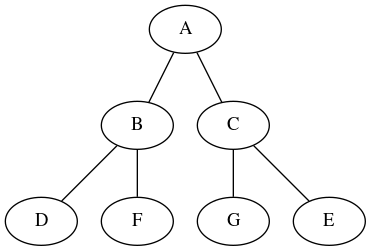
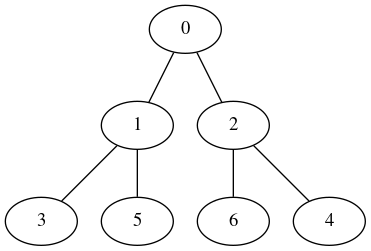
>

diff --git a/node.cpp b/node.cpp
@@ -2,30 +2,10 @@
 
 namespace Kdt
 {
-    //Node::Node(int level, const Object& obj, Dimension dim):
-    //    left(nullptr),
-    //    right(nullptr),
-    //    level(level),
-    //    obj(obj),
-    //    dim(dim)
-    //{
-    //    axis = level % NDIM;
-    //    key = 0.5 * (dim.min[axis] + dim.max[axis]);
-    //}
-
     int find_median(int axis, Input& objects)
     {
         std::sort(objects.begin(), objects.end(), [&](Object& a, Object& b){return a.dim.min[axis] < b.dim.min[axis];});
         int size = objects.size();
-
-        std::cout << "level: " << axis << std::endl;
-        std::cout << "axis: " << axis << std::endl;
-        std::cout << "size: " << size << std::endl;
-        for (auto a: objects)
-        {
-            std::cout << "a: " << a.id << std::endl;
-        }
-        //assert(false);
 
         if (size % 2 != 0)
         {
@@ -43,14 +23,7 @@ namespace Kdt
         dim(dim)
     {
         axis = level % NDIM;
-        if (median)
-        {
-            key = obj.dim.min[axis];
-        }
-        else
-        {
-            key = 0.5 * (dim.min[axis] + dim.max[axis]);
-        }
+        set_key(median);
     }
 
     Node::Node(int level, Dimension dim):
@@ -60,110 +33,7 @@ namespace Kdt
         dim(dim)
     {
         axis = level % NDIM;
-        key = 0.5 * (dim.min[axis] + dim.max[axis]);
     }
-
-    //Node* Node::insert(Input& objects, bool median)
-    //{
-    //    //int sub_axis = (level + 1) % NDIM;
-    //    //std::cout << "resident obj: " << this->obj.id << std::endl;
-    //    //std::cout << "resident axis: " << this->axis << std::endl;
-    //    //std::cout << "resident key: " << this->key << std::endl;
-    //    //int index = find_median(sub_axis, objects);
-    //    //const Object& obj = objects[index];
-    //    const Object& obj = objects.front();
-
-    //    Node* node = nullptr;
-
-    //    if (obj.dim.min[axis] < key)
-    //    {
-    //        bool inserted = insert_left(obj, median);
-    //        //if (inserted)
-    //        //{
-    //            //objects.erase(objects.begin() + index);
-    //            //objects.erase(objects.begin());
-    //            //return left;
-    //        //}
-    //        //node = left->insert(objects, median);
-    //    }
-    //    else
-    //    {
-    //        bool inserted = insert_right(obj, median);
-    //        if (inserted)
-    //        {
-    //            //objects.erase(objects.begin() + index);
-    //            objects.erase(objects.begin());
-    //            return right;
-    //        }
-    //        node = right->insert(objects, median);
-    //    }
-
-    //    return node;
-    //}
-
-    //Node* Node::insert(const Object& obj)
-    //{
-    //    Node* node = nullptr;
-
-    //    if (obj.dim.min[axis] < key)
-    //    {
-    //        bool inserted = insert_left(obj);
-    //        if (inserted) return left;
-    //        node = left->insert(obj);
-    //    }
-    //    else
-    //    {
-    //        bool inserted = insert_right(obj);
-    //        if (inserted) return right;
-    //        node = right->insert(obj);
-    //    }
-
-    //    return node;
-    //}
-
-    //bool Node::insert_left(const Object& obj, bool median)
-    //{
-    //    if (left == nullptr)
-    //    {
-    //        Dimension half_dim = dim;
-    //        if (median)
-    //        {
-    //            half_dim.max[axis] = this->obj.dim.min[axis];
-    //        }
-    //        else
-    //        {
-    //            half_dim.max[axis] = key;
-    //        }
-
-    //        left = new Node(level + 1, obj, half_dim, median);
-    //        return true;
-    //    }
-
-    //    return false;
-    //}
-
-    //bool Node::insert_right(const Object& obj, bool median)
-    //{
-    //    if (right == nullptr)
-    //    {
-    //        Dimension half_dim = dim;
-    //        if (median)
-    //        {
-    //            half_dim.min[axis] = this->obj.dim.min[axis];
-    //        }
-    //        else
-    //        {
-    //            half_dim.min[axis] = key;
-    //        }
-
-    //        right = new Node(level + 1, obj, half_dim, median);
-    //        return true;
-    //    }
-
-    //    return false;
-    //}
-
-    // assumed root is initizalized and has object.
 
     Dimension Node::half_dim_left(bool median)
     {
@@ -197,6 +67,18 @@ namespace Kdt
         return half_dim;
     }
 
+    void Node::set_key(bool median)
+    {
+        if (median)
+        {
+            key = obj.dim.min[axis];
+        }
+        else
+        {
+            key = 0.5 * (dim.min[axis] + dim.max[axis]);
+        }
+    }
+
     void Node::insert(Input objects, std::map<int, Node*>& id_address, bool median)
     {
         if (objects.empty())
@@ -204,35 +86,38 @@ namespace Kdt
             return;
         }
 
-        int index = find_median(axis, objects);
-        const Object& obj = objects[index];
+        int index;
 
-        if (obj.dim.min[axis] < key)
+        if (median)
         {
-            assert(left == nullptr);
-
-            left = new Node(level + 1, obj, half_dim_left(median), median);
-            id_address.insert(std::make_pair(obj.id, left));
-            auto slice = std::vector<Object>(objects.begin(), objects.begin() + index);
-            for (auto s: slice)
-            {
-                std::cout << "id left: " << s.id << std::endl;
-            }
-            left->insert(slice, id_address, median);
+            index = find_median(axis, objects);
+        }
+        else
+        {
+            index = 0;
         }
 
-        if (obj.dim.min[axis] >= key)
+        const Object& obj = objects[index];
+
+        this->obj = obj;
+        set_key(median);
+        id_address.insert(std::make_pair(obj.id, this));
+
+        auto slice_left = std::vector<Object>(objects.begin(), objects.begin() + index);
+        auto slice_right = std::vector<Object>(objects.begin() + index + 1, objects.end());
+
+        if (!slice_left.empty())
+        {
+            assert(left == nullptr);
+            left = new Node(level + 1, half_dim_left(median));
+            left->insert(slice_left, id_address, median);
+        }
+
+        if (!slice_right.empty())
         {
             assert(right == nullptr);
-
-            right = new Node(level + 1, obj, half_dim_right(median), median);
-            id_address.insert(std::make_pair(obj.id, right));
-            auto slice = std::vector<Object>(objects.begin() + index + 1, objects.end());
-            for (auto s: slice)
-            {
-                std::cout << "id right: " << s.id << std::endl;
-            }
-            right->insert(slice, id_address, median);
+            right = new Node(level + 1, half_dim_right(median));
+            right->insert(slice_right, id_address, median);
         }
     }
 }

diff --git a/kdt.cpp b/kdt.cpp
@@ -2,28 +2,12 @@
 
 namespace Kdt
 {
-    //Kdt::Kdt(Input& objects):
-    //    root(nullptr)
-    //{
-    //    init_root(objects);
-    //    insert(objects);
-    //}
-
-    Kdt::Kdt(Input& objects, Dimension dim, bool median):
-        root(nullptr)
+    Kdt::Kdt(Input& objects, Dimension dim, bool median)
     {
-        init_root(objects, dim, median);
+        root = new Node(0, dim);
         root->insert(objects, id_address, median);
     }
     
-    //Dimension::Dimension(Vector min, Vector max):
-        //min(min),
-        //max(max)
-    //{
-    //}
-    //
-
-
     Dimension bounding_box(const Input& objects)
     {
         Dimension dim;
@@ -39,60 +23,6 @@ namespace Kdt
 
         return dim;
     }
-
-    void Kdt::init_root(Input& objects, Dimension dim, bool median)
-    {
-        root = new Node(0, dim);
-
-        if (median)
-        {
-            int index = find_median(root->axis, objects);
-            const Object& obj = objects[index];
-            root->obj = obj;
-            id_address.insert(std::make_pair(root->obj.id, root));
-            objects.erase(objects.begin() + index);
-        }
-        else
-        {
-            root->obj = objects.front();
-            id_address.insert(std::make_pair(root->obj.id, root));
-            objects.erase(objects.begin());
-        }
-    }
-
-    //void Kdt::init_root(const Input& objects)
-    //{
-    //    root = new Node(0, objects.front(), bounding_box(objects));
-    //    id_address.insert(std::make_pair(objects.front().id, root));
-    //}
-
-    //void Kdt::insert(const Object& obj)
-    //{
-    //    int count = id_address.count(obj.id);
-    //    assert(count == 0);
-    //    //if (count != 0) return;
-
-    //    Node* node = root->insert(objects);
-    //    if (node != nullptr)
-    //    {
-    //        id_address.insert(std::make_pair(obj.id, node));
-    //    }
-    //}
-
-    //void Kdt::insert(Input& objects, bool median)
-    //{
-    //    while(!objects.empty())
-    //    {
-    //        Node* node = root->insert(objects, median);
-    //        if (node != nullptr)
-    //        {
-    //            int count = id_address.count(node->obj.id);
-    //            assert(count == 0);
-
-    //            id_address.insert(std::make_pair(node->obj.id, node));
-    //        }
-    //    }
-    //}
 
     void dot_(std::ofstream& out, Node* node)
     {

diff --git a/vtk/draw.cpp b/vtk/draw.cpp
@@ -21,6 +21,8 @@
 #include <vtkCellCenters.h>
 #include <vtkDoubleArray.h>
 #include <vtkLookupTable.h>
+#include <vtkWindowToImageFilter.h>
+#include <vtkPNGWriter.h>
 
 vtkNew<vtkNamedColors> colors;
 vtkNew<vtkRenderer> renderer;
@@ -237,8 +239,21 @@ int main(int, char*[])
     renderWindowInteractor->SetRenderWindow(renderWindow);
 
     renderer->SetBackground(colors->GetColor3d("White").GetData());
+    renderWindow->SetSize(1000, 1000);
     renderWindow->Render();
-    renderWindowInteractor->Start();
+    //renderWindowInteractor->Start();
+
+    // Screenshot
+    vtkNew<vtkWindowToImageFilter> windowToImageFilter;
+    windowToImageFilter->SetInput(renderWindow);
+    windowToImageFilter->SetScale(1);
+    windowToImageFilter->ReadFrontBufferOff();
+    windowToImageFilter->Update();
+
+    vtkNew<vtkPNGWriter> writer;
+    writer->SetFileName("2dpoint.png");
+    writer->SetInputConnection(windowToImageFilter->GetOutputPort());
+    writer->Write();
 
     return EXIT_SUCCESS;
 }

diff --git a/kdt.h b/kdt.h
@@ -48,12 +48,10 @@ namespace Kdt
 
         Node(int level, Dimension dim);
         Node(int level, Object obj, Dimension dim, bool median);
-        //Node* insert(Input& objects, bool median);
-        //bool insert_left(const Object& obj, bool median);
-        //bool insert_right(const Object& obj, bool median);
         Dimension half_dim_left(bool median);
         Dimension half_dim_right(bool median);
         void insert(Input objects, std::map<int, Node*>& id_address, bool median);
+        void set_key(bool median);
     };
 
     struct Kdt
@@ -61,13 +59,9 @@ namespace Kdt
         Node* root;
         std::map<int, Node*> id_address;
 
-        //void init_root(const Input& objects);
-        void init_root(Input& objects, Dimension dim, bool median);
-        void insert(Input& objects, bool median);
         void dot();
         void print_space();
 
-        //Kdt(const Input& objects);
         Kdt(Input& objects, Dimension dim, bool median);
     };
 

diff --git a/2dpoint.cpp b/2dpoint.cpp
@@ -34,7 +34,7 @@ int main()
 
     Dimension box{box_min, box_max};
 
-    Kdt::Kdt tree(input, box, false);
+    Kdt::Kdt tree(input, box, true);
     tree.dot();
     tree.print_space();
 
